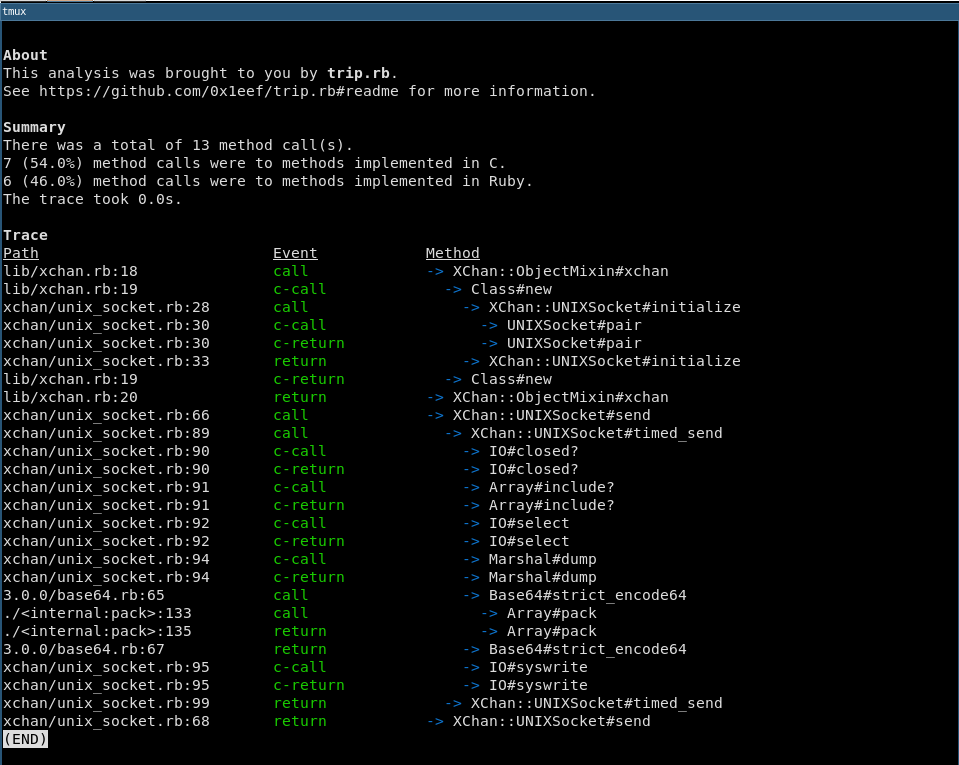
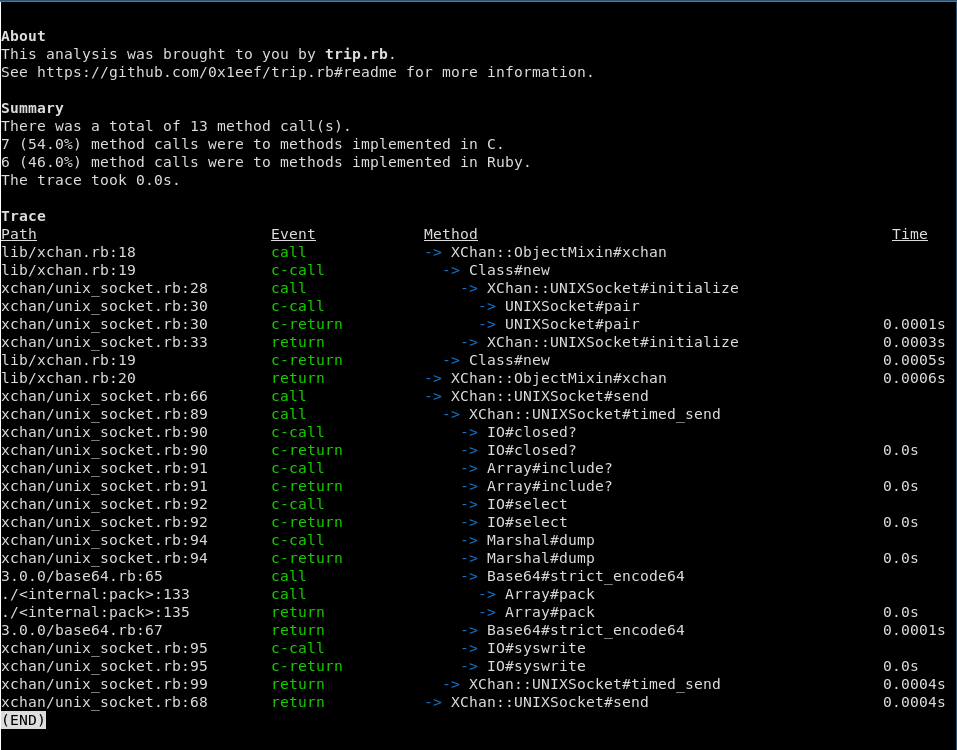
add "Time" column

diff --git a/lib/trip/analyzer.rb b/lib/trip/analyzer.rb
@@ -25,10 +25,10 @@ class Trip::Analyzer
     indent_by  = 0
     events, duration = run_code
     print_about
-    events.each do |event|
+    events.each do |event, duration|
       indent_by = open_count * 2
       open_count, indent_by = adjust_counters(event, open_count, indent_by)
-      print_event(stringio, event, indent_by)
+      print_event(stringio, event, indent_by, duration)
     end
     print_summary(duration)
     print_trace(stringio)
@@ -40,7 +40,12 @@ class Trip::Analyzer
     start = Process.clock_gettime(Process::CLOCK_REALTIME)
     events = []
     while event = @trip.resume
-      events.push(event)
+      if event.return?
+        call_event, = events.find { |(e, _)| event.caller_context == e.caller_context && e.call? }
+        events.push([event, event.created_at - call_event.created_at])
+      else
+        events.push([event, nil])
+      end
     end
     finish = Process.clock_gettime(Process::CLOCK_REALTIME)
     [events, finish - start]

diff --git a/lib/trip/analyzer/printer.rb b/lib/trip/analyzer/printer.rb
@@ -11,7 +11,8 @@ module Trip::Analyzer::Printer
   def print_header_row
     print Paint["Path", :underline].ljust(38),
           Paint["Event", :underline].ljust(25),
-          Paint["Method", :underline].rjust(5)
+          Paint["Method", :underline].ljust(60),
+          Paint["Time", :underline]
   end
 
   def print_trace(stringio)
@@ -22,12 +23,13 @@ module Trip::Analyzer::Printer
     print "\n", stringio.string
   end
 
-  def print_event(io, event, indent_by)
+  def print_event(io, event, indent_by, duration)
     io.print event_path(event).ljust(30),
             Paint[event.name, :green].ljust(24),
              " " * indent_by,
              Paint["-> ", :blue],
-             event.signature,
+             event.signature.ljust(50 - indent_by),
+             duration ? "#{duration.round(4)}s" : '',
              "\n"
   end
 

diff --git a/lib/trip/event.rb b/lib/trip/event.rb
@@ -13,9 +13,14 @@ class Trip::Event < BasicObject
   #  Examples: "c-call", "call", "c-return", "return", ...
   attr_reader :name
 
+  # @return [Integer]
+  #  Number of seconds since epoch.
+  attr_reader :created_at
+
   def initialize(name, event)
     @name = name
     @event = event
+    @created_at = ::Process.clock_gettime(::Process::CLOCK_REALTIME)
   end
 
   # @return [String]
